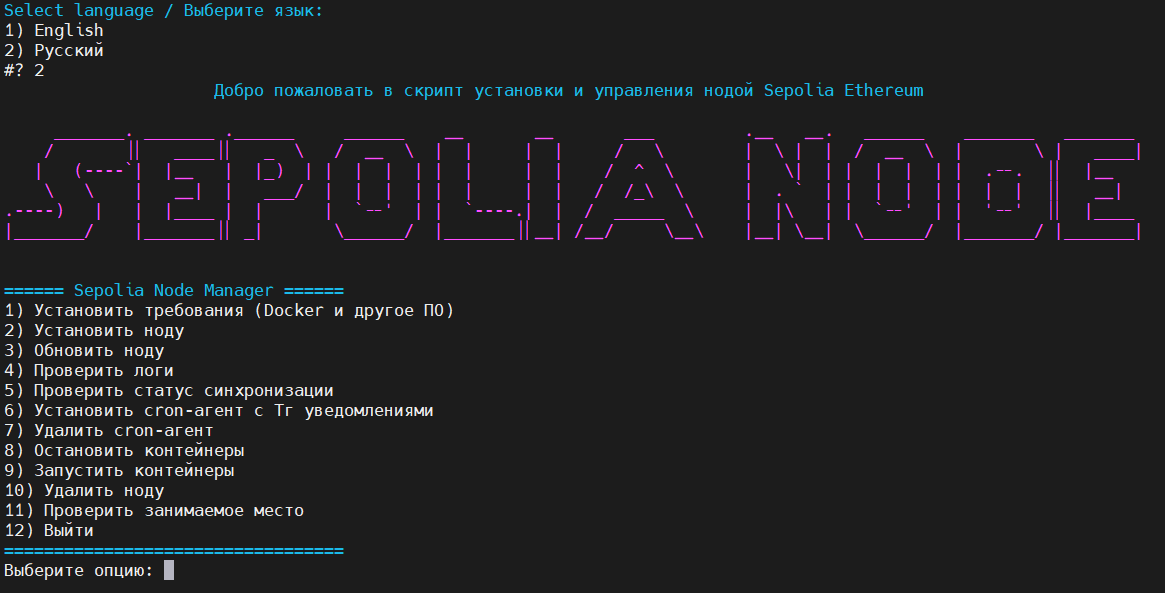
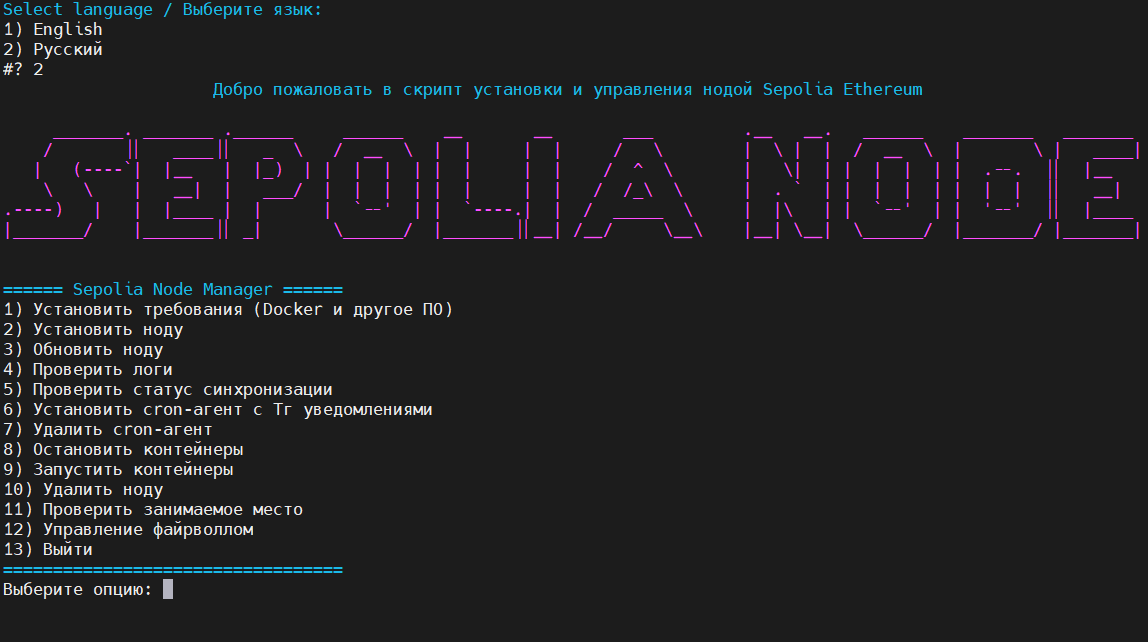
Firewall managment EN RU README upd

diff --git a/README.md b/README.md
@@ -18,6 +18,7 @@
 * 🧹 Удаление ноды
 * 💽 Анализ использования диска
 * 📡 Установка cron-агента с Telegram-уведомлениями о статусе ноды
+* 🔥 Управление файрволлом
 
 ## ⚙ Требования
 
@@ -64,7 +65,8 @@ chmod +x install_sepolia.sh
 9. Запустить контейнеры
 10. Удалить ноду
 11. Проверить использование диска
-12. Выход
+12. Управление файрволлом
+13. Выход
 
 ## 🔐 Telegram уведомления
 
@@ -102,6 +104,30 @@ chmod +x install_sepolia.sh
 * BEACON RPC URL: `http://localhost:5052`
 
 localhost замените на ip-адрес вашего сервера.
+
+## 🔥 Управление файрволлом
+
+Этот пункт меню добавляет возможность управлять файрволлом UFW (Uncomplicated Firewall) на сервере. Он помогает защитить ноду, контролируя доступ к важным портам.
+
+### Пункты меню
+
+1. **Включить файрволл**
+   Открывает SSH-порты (22, `ssh`) и включает UFW, если он ещё не активирован.
+   Перед активацией появляется подтверждение `y/n`.
+
+2. **Разрешить локальные порты**
+   Полезно, если клиент ноды (например, Aztec Sequencer) работает локально.
+   Открываются P2P-порты Geth и разрешается доступ к RPC и Beacon портам с `127.0.0.1`.
+
+3. **Разрешить определённые IP-адреса**
+   Полезно, если клиент ноды работает на другом сервере.
+   Открываются порты Geth, чувствительные порты (8545, 3500) блокируются и разрешаются **только** для введённого доверенного IP-адреса.
+
+### Примеры поведения
+
+* ✅ Сообщение, если UFW уже активирован.
+* ❌ Сообщение, если пользователь отменил включение.
+* 🔒 Включение UFW происходит только при его неактивном состоянии.
 
 ## 🗑 Удаление
 

diff --git a/en/README.md b/en/README.md
@@ -18,6 +18,7 @@ An interactive bash script for installing, managing, and monitoring an Ethereum 
 * 🧹 Remove the node
 * 💽 Analyze disk usage
 * 📡 Install cron-agent with Telegram status notifications
+* 🔥 Firewall Management
 
 ## ⚙ Requirements
 
@@ -63,7 +64,8 @@ The script offers the following menu (available in English or Russian):
 9. Start containers
 10. Delete node
 11. Check disk usage
-12. Exit
+12. Firewall management
+13. Exit
 
 ## 🔐 Telegram Notifications
 
@@ -101,6 +103,34 @@ The script displays:
 * BEACON RPC URL: `http://localhost:5052`
 
 replace localhost with the IP address of your server.
+
+Вот блок с описанием функционала настройки файрволла в формате **Markdown**, с описанием **на английском** и **на русском** языках:
+
+---
+
+## 🔥 Firewall Management
+
+This feature adds a menu to manage the UFW (Uncomplicated Firewall) on your server. It helps secure your node by controlling access to important ports.
+
+### Menu Options
+
+1. **Enable Firewall**
+   Opens SSH ports (22, `ssh`) and enables UFW if it's not already enabled.
+   A confirmation prompt (`y/n`) is shown before activation.
+
+2. **Allow Local Ports**
+   Useful when your node client (e.g. Aztec Sequencer) is running locally.
+   Opens Geth P2P ports and allows access to RPC and Beacon ports from `127.0.0.1`.
+
+3. **Allow Specific IPs**
+   Useful when your node client is running on another server.
+   Opens Geth ports to the public, blocks sensitive ports (8545, 5052), and allows them **only** from a trusted IP that you input.
+
+### Example Prompts
+
+* ✅ Confirmation message when UFW is already enabled.
+* ❌ Message when enabling is cancelled by the user.
+* 🔒 Only enables UFW if not already active.
 
 ## 🗑 Removal
 
